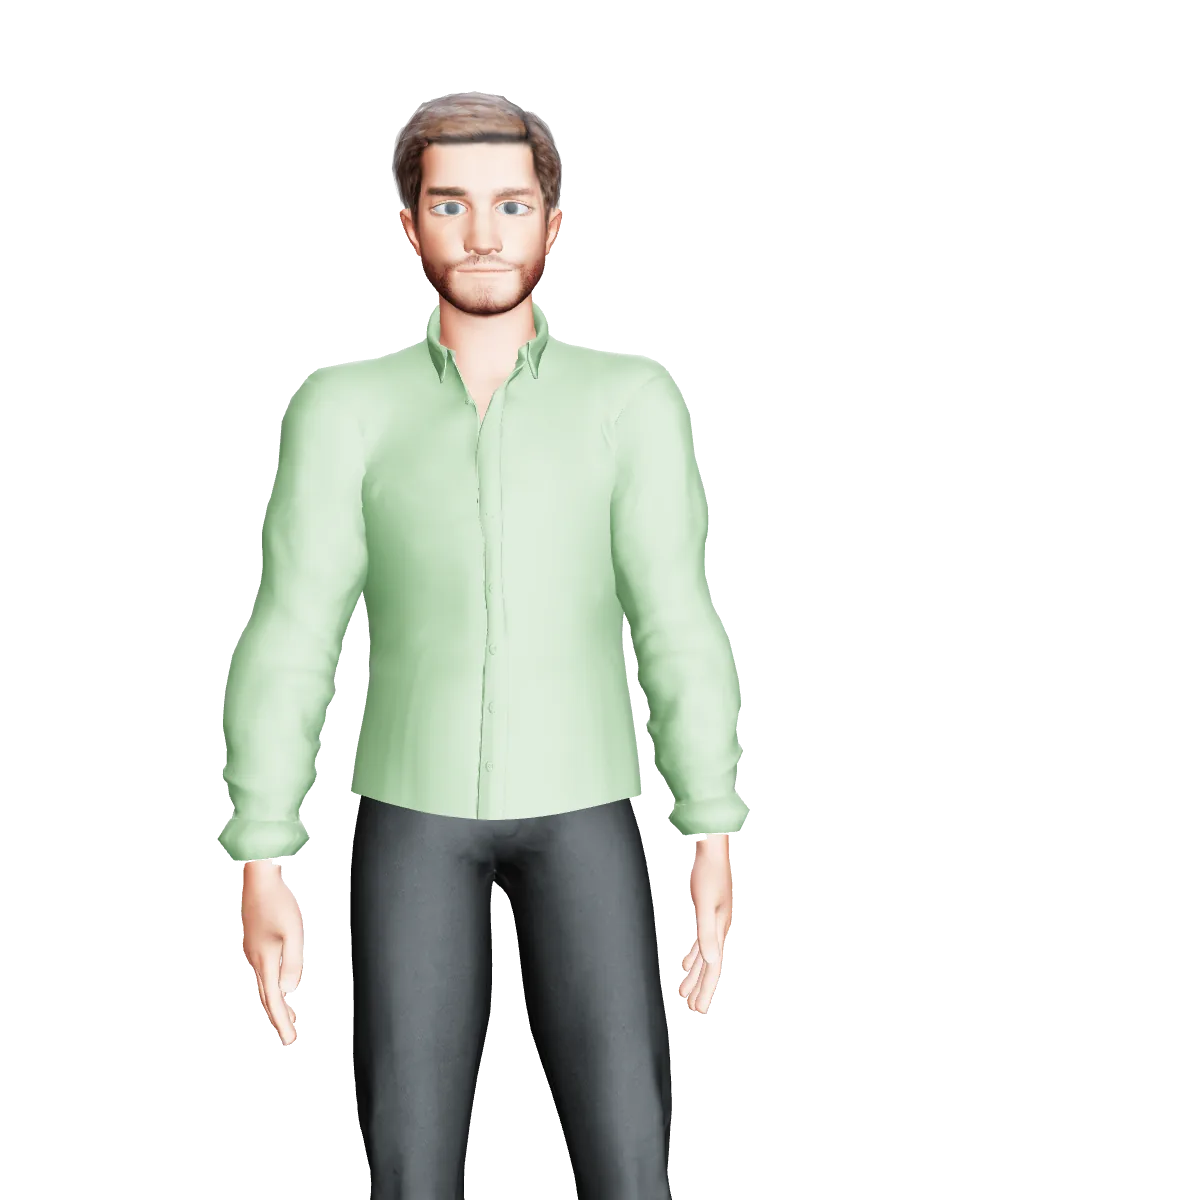
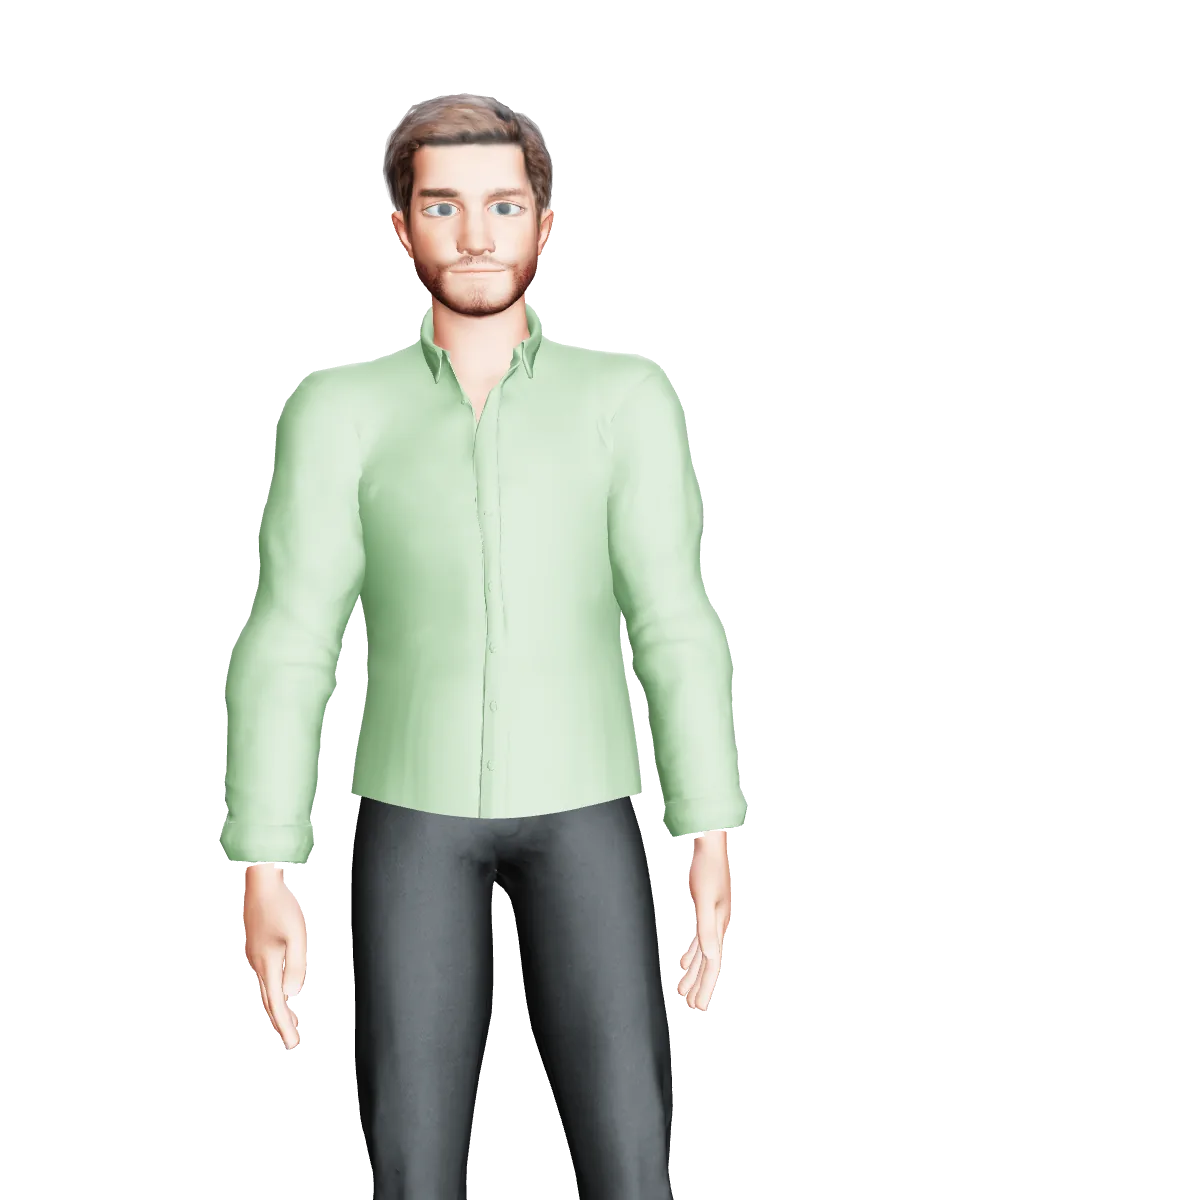
Recapture Jake's landing posters with the new sleeves

diff --git a/.claude/eval/2026-10-14-jake-sleeves/README.md b/.claude/eval/2026-10-14-jake-sleeves/README.md
@@ -60,3 +60,19 @@ option sheets Hmz picked from (three.js, the room's lights, the sage shirt; `/de
 - `scripts/measure.py`, `probe_cuff.py`, `probe_weights.py` (diagnosis), `build_option.py` (tailor + raw export)
 - `scripts/splice.mjs`, `verify_rest.mjs`, `inspect.mjs`, `parts.cjs` (bytes per part of a GLB)
 - The scene before this session: `../2026-09-18-v9-bakeoff/bakeoff_scene_pre_sleeves1014.blend`
+
+## Follow-up (same day): the export, and the landing posters
+
+- **The export works again** (in Hmz's live Blender through the MCP). Blender 5.1's glTF exporter, with its default
+  `export_optimize_animation_size`, cut every NLA track to 2 keys (first and last frame: a slide between two poses).
+  `v9_export.export` now passes False; a full 34-clip export through `v9_ship`'s steps verifies at worst 0.0156 deg /
+  0.118 mm (`v9_verify_anim.mjs`, V9.8's figure), its other 21 primitives identical to the shipped file. Its base comes
+  out 51 KB larger (animation 196 KB against 144 KB, same channels and keys: packing, not motion), so the spliced
+  file stays shipped. Run the export in the GUI Blender: headless (`blender -b`), `normalise` measured Jake at 33.9 m
+  and shrank the shirt 20x, the "uniform scale" `splice.mjs` undoes.
+- **Landing posters recaptured** for Jake (`2026-10-03-v8-3c-landing/scripts`: `stills.cjs` first for hero, idea,
+  moves, remember, close; end and start for picture, model; `room-stills.cjs`; `faces.cjs`), 0 API calls; MJ's face
+  byte-identical. Old ones in `landing/before/`, `sheets/landing-before-after.jpg`.
+- **Handover** (`scripts/handover.cjs`, V8.3c's with `?nointro`; `landing/handover/`): poster against the first live
+  frame within 2 px at every spot but picture, whose live frame carries the board picture the poster does not
+  (mean diff 13.8; 9.5 to 14.9 in every run since V8.3b).
